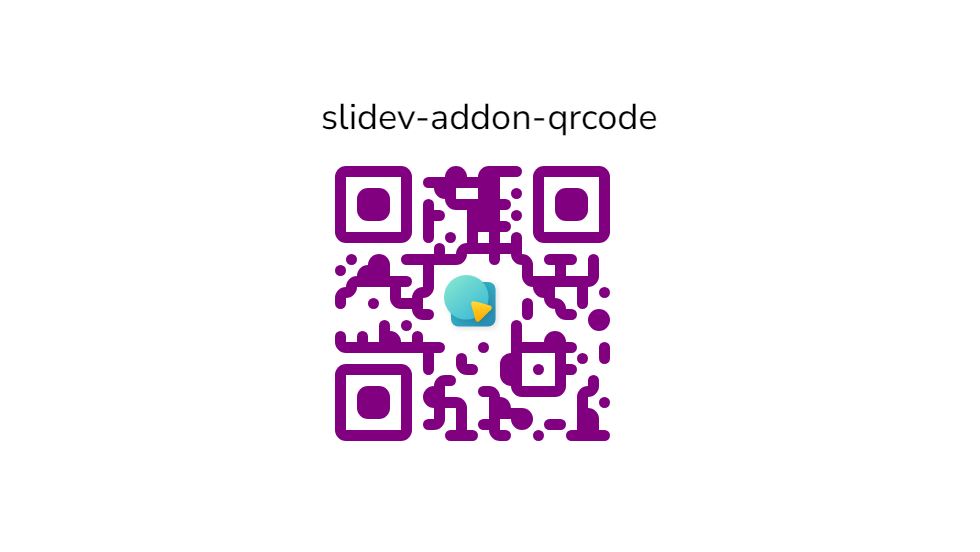
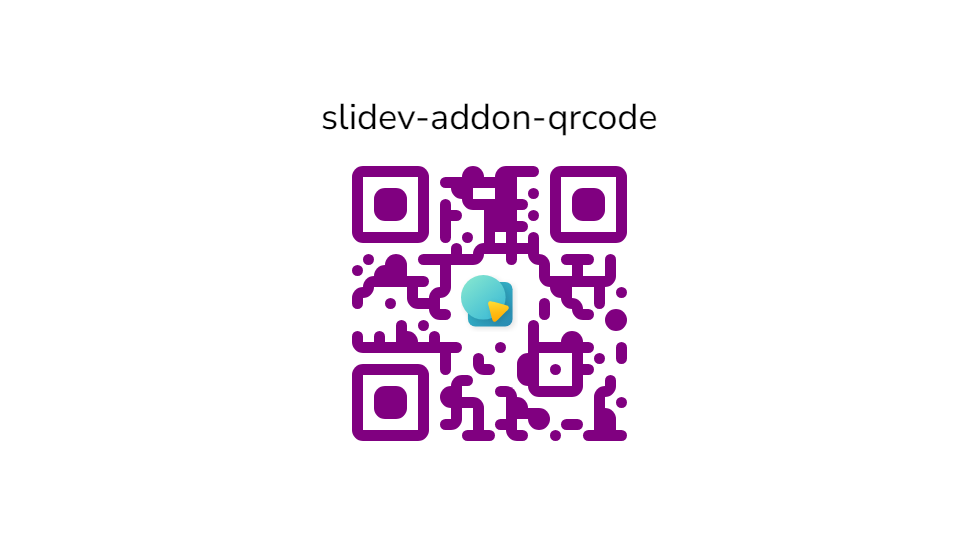
chore: improve example and README

Changed region(s): [[0.3367, 0.2772, 0.6429, 0.8007]]

diff --git a/README.md b/README.md
@@ -1,3 +1,76 @@
 # slidev-addon-qrcode
 
 QR-Code component for [sli.dev](https://sli.dev/)
+
+![example](https://raw.githubusercontent.com/kravetsone/slidev-addon-qrcode/main/example-export/001.png)
+
+```md
+---
+layout: center
+---
+
+<div class="flex flex-col items-center">
+
+# slidev-addon-qrcode
+
+<QRCode
+    :width="300"
+    :height="300"
+    type="svg"
+    data="https://sli.dev"
+    :margin="10"
+    :imageOptions="{ margin: 10 }"
+    :dotsOptions="{ type: 'extra-rounded', color: 'purple' }"
+    image="/logo.svg"
+/>
+
+</div>
+```
+
+## Installation
+
+```bash
+npm i slidev-addon-qrcode
+```
+
+### Usage
+
+-   Define this addon in `frontmatter`
+
+```yaml
+addons:
+    - slidev-addon-qrcode
+```
+
+-   or in `package.json`
+
+```json
+ "slidev": {
+    "addons": [
+      "slidev-addon-qrcode"
+    ]
+  },
+```
+
+## Components
+
+### QRCode
+
+```vue
+<QRCode
+    :width="300"
+    :height="300"
+    type="svg"
+    data="https://sli.dev"
+    :margin="10"
+    :imageOptions="{ margin: 10 }"
+    :dotsOptions="{ type: 'extra-rounded', color: 'purple' }"
+    image="/logo.svg"
+/>
+```
+
+> Find more about options in [qr-code-styling repo](https://github.com/kozakdenys/qr-code-styling/tree/master?tab=readme-ov-file#qrcodestyling-instance)
+
+## Thanks
+
+-   [qr-code-styling](https://github.com/kozakdenys/qr-code-styling) - this addon use it under the hood

diff --git a/example.md b/example.md
@@ -2,6 +2,8 @@
 layout: center
 ---
 
+<div class="flex flex-col items-center">
+
 # slidev-addon-qrcode
 
 <QRCode
@@ -14,3 +16,5 @@ layout: center
     :dotsOptions="{ type: 'extra-rounded', color: 'purple' }"
     image="/logo.svg"
 />
+
+</div>
